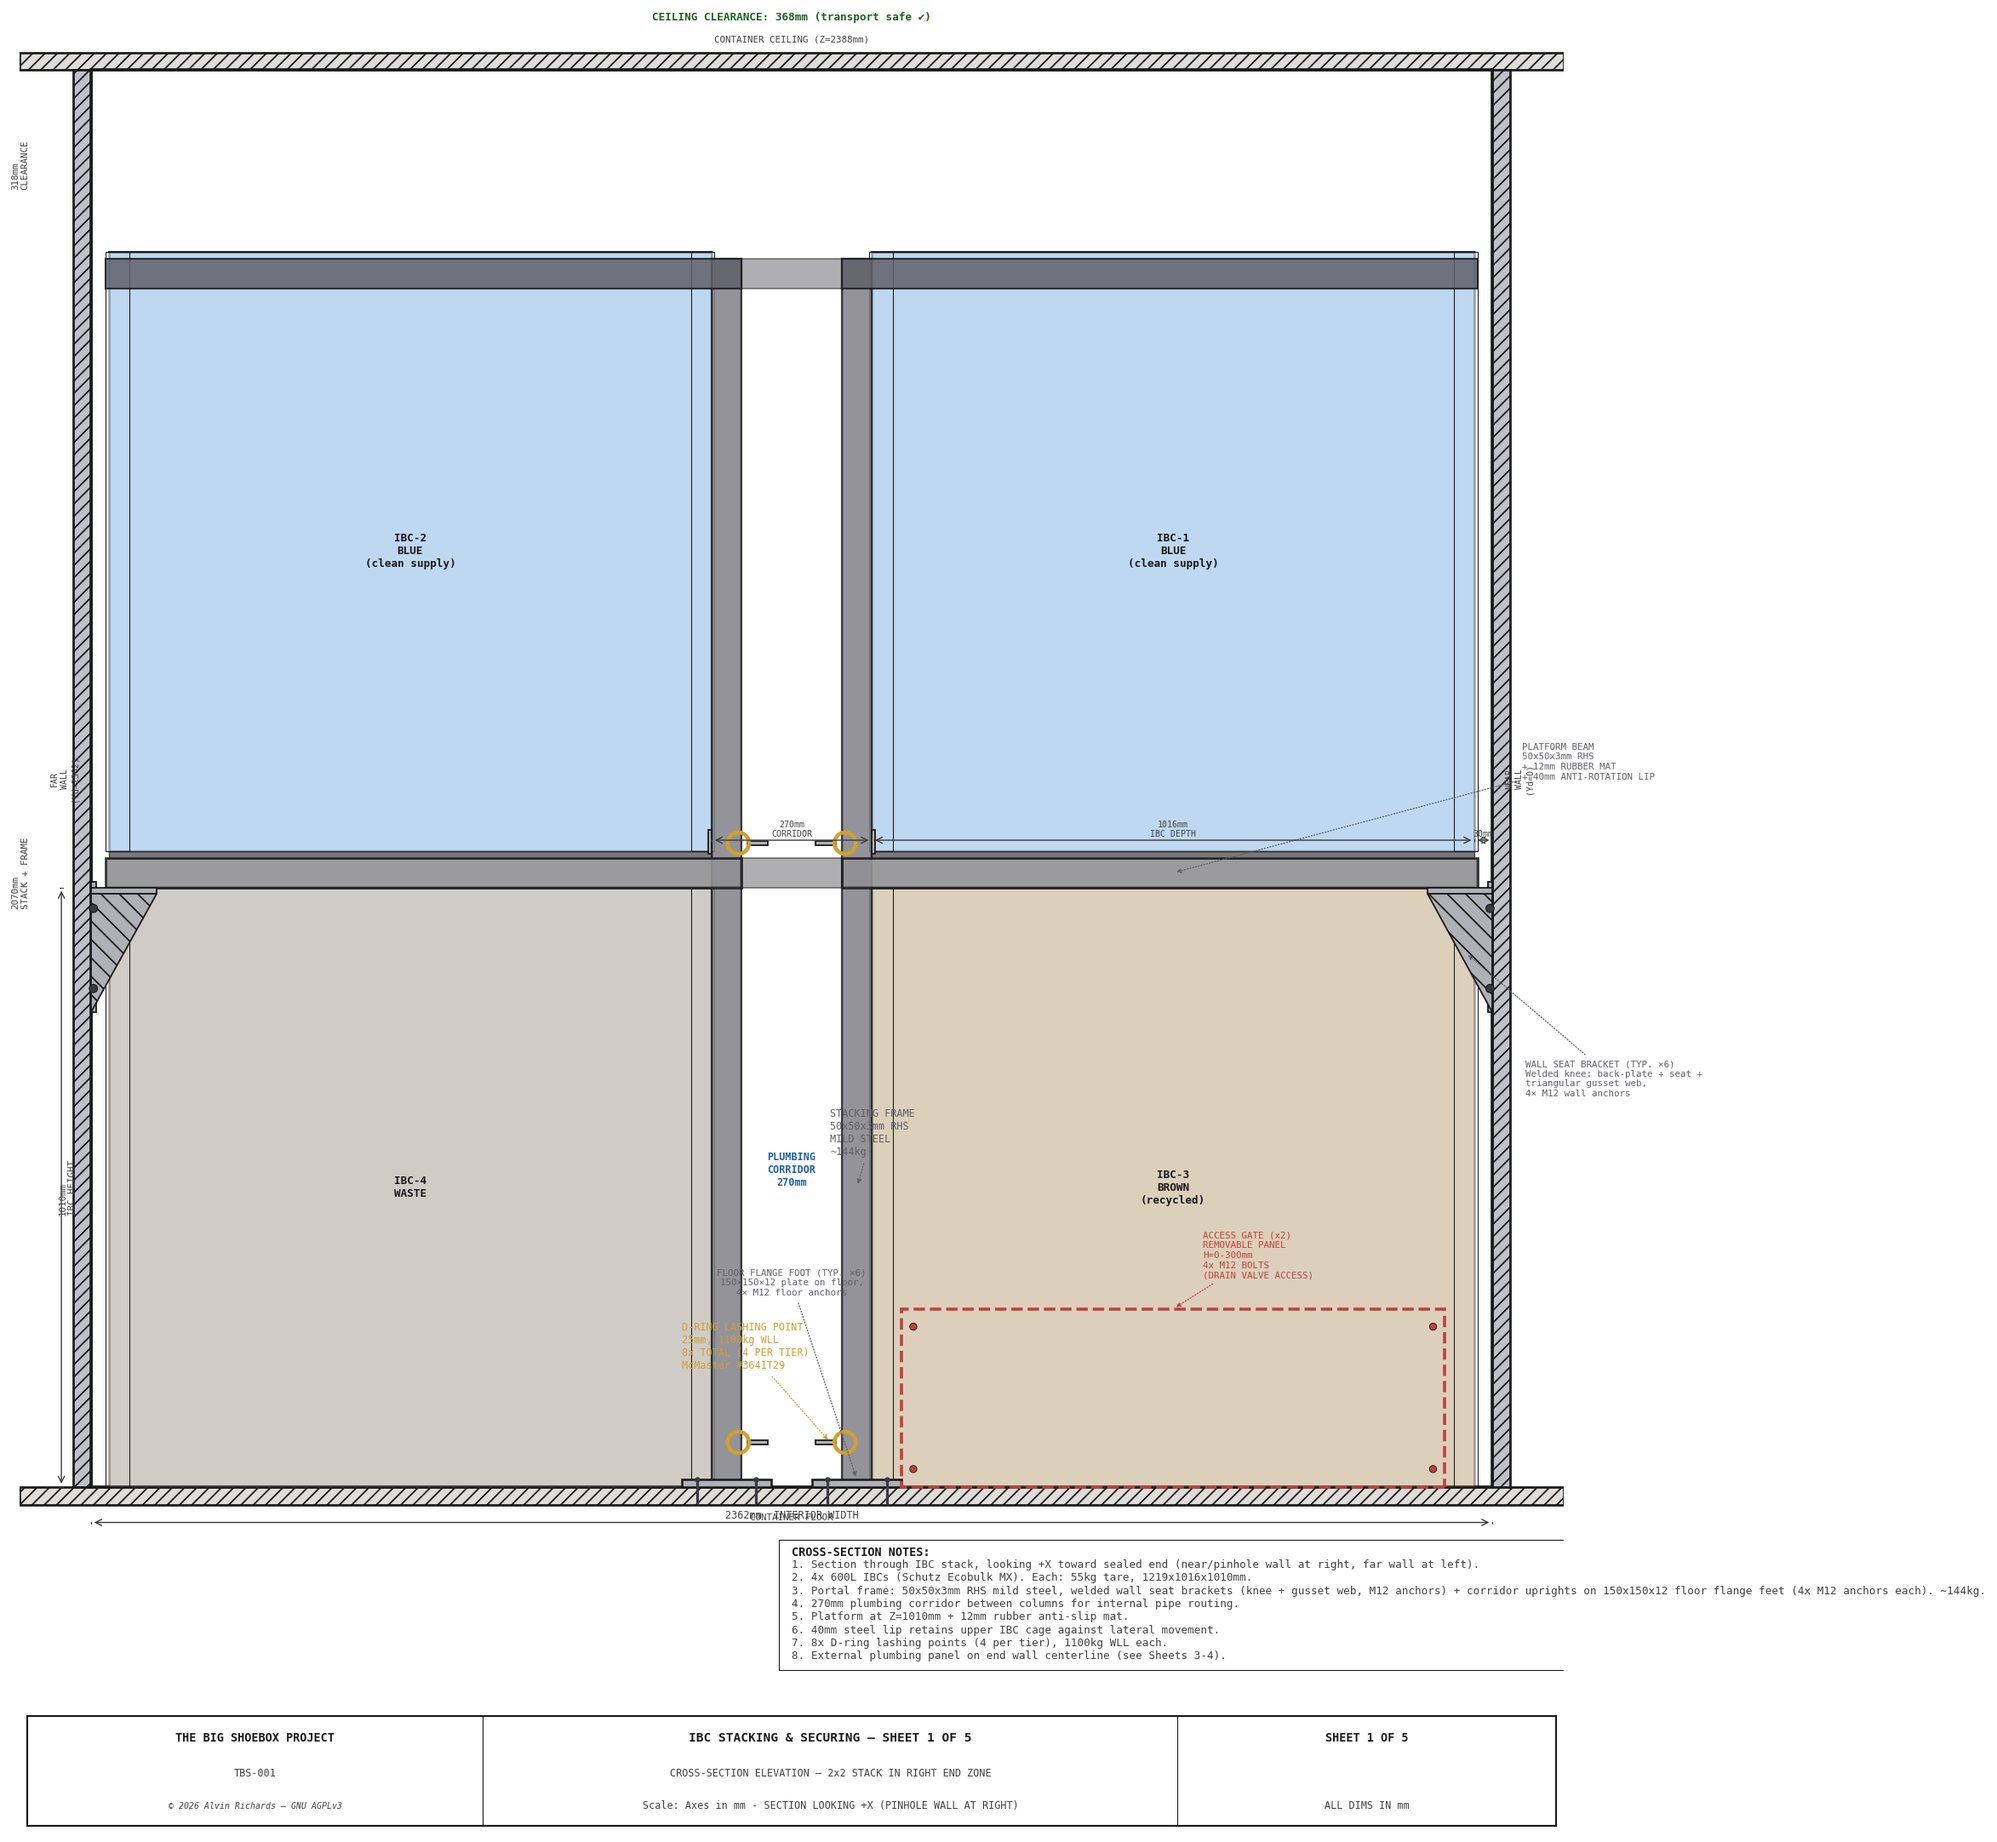
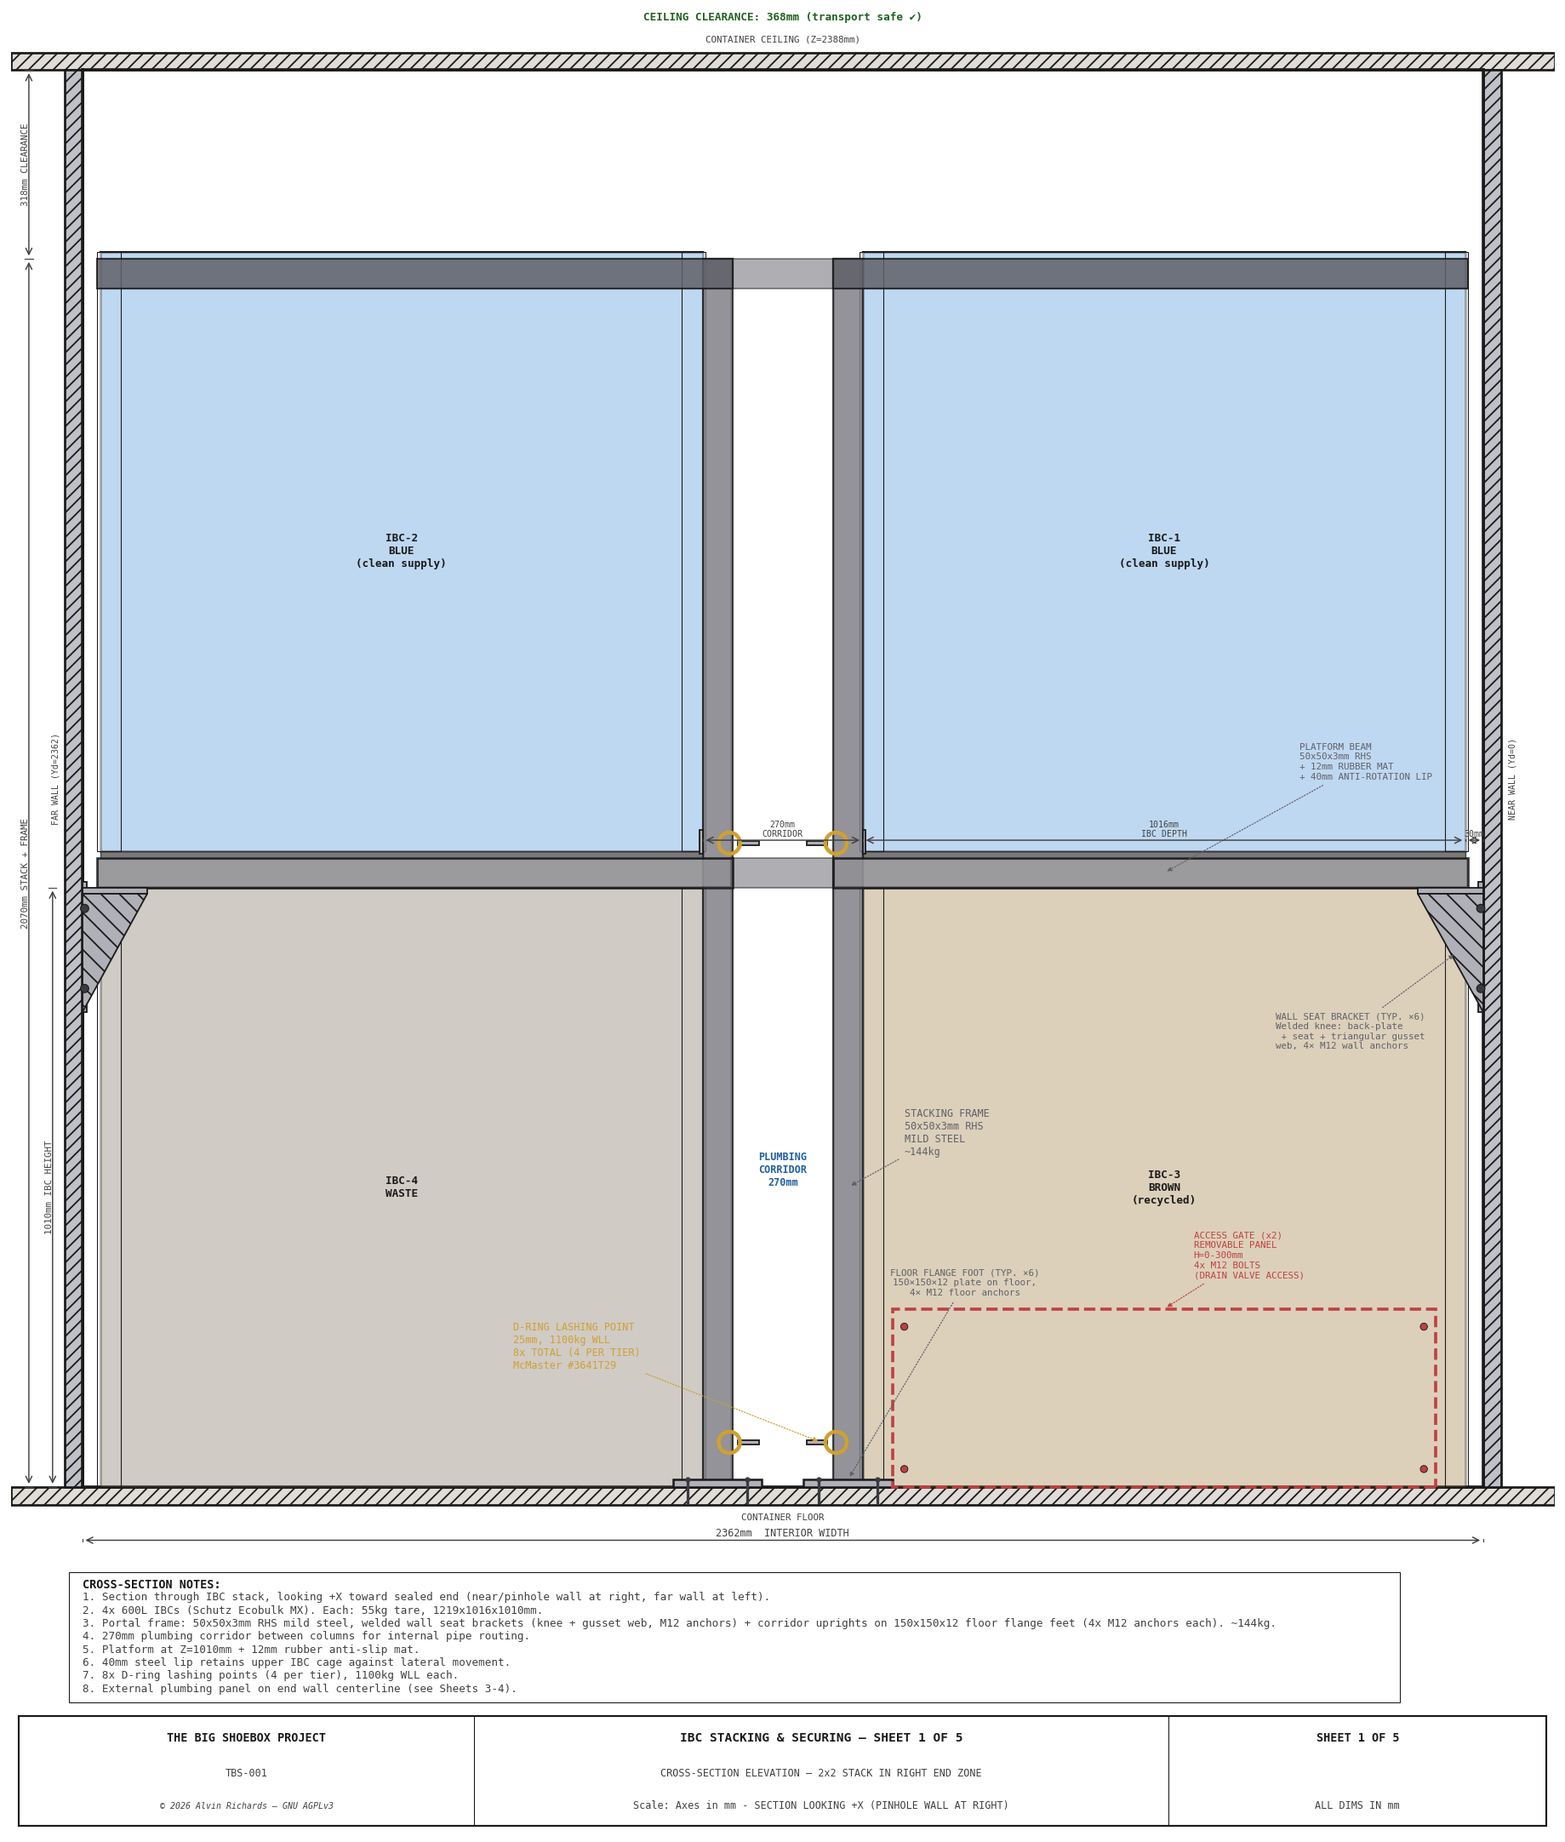
Tidy labels

diff --git a/src/generators/generate_ibc_stacking_diagram.py b/src/generators/generate_ibc_stacking_diagram.py
@@ -155,10 +155,10 @@ def sheet1():
             ha="center", va="top", fontsize=6, color=C_DIM, **FONT)
     ax.text(sx(C_WID / 2), sy(C_HGT + 45), "CONTAINER CEILING (Z=2388mm)",
             ha="center", va="bottom", fontsize=6, color=C_DIM, **FONT)
-    ax.text(sx(-45), sy(C_HGT / 2), "NEAR\nWALL\n(Yd=0)",
+    ax.text(sx(-50), sy(C_HGT / 2), "NEAR WALL (Yd=0)",
             ha="center", va="center", fontsize=5.5, color=C_DIM, **FONT,
             rotation=90)
-    ax.text(sx(C_WID + 45), sy(C_HGT / 2), "FAR\nWALL\n(Yd=2362)",
+    ax.text(sx(C_WID + 45), sy(C_HGT / 2), "FAR WALL (Yd=2362)",
             ha="center", va="center", fontsize=5.5, color=C_DIM, **FONT,
             rotation=90)
 
@@ -258,8 +258,8 @@ def sheet1():
                                 fc=C_BOLT, ec=C_OUT, lw=0.6, zorder=9))
 
     # Annotate the wall seat bracket (near-wall instance; typical at both walls)
-    leader(ax, sx(45), sy(seat_bot - gh / 2), sx(-55), sy(720),
-           "WALL SEAT BRACKET (TYP. ×6)\nWelded knee: back-plate + seat +\ntriangular gusset web,\n4× M12 wall anchors",
+    leader(ax, sx(45), sy(seat_bot - gh / 2), sx(350), sy(800),
+           "WALL SEAT BRACKET (TYP. ×6)\nWelded knee: back-plate\n + seat + triangular gusset\nweb, 4× M12 wall anchors",
            color=C_FRAME, fs=6, ha="left", va="top",
            arrow_style="-|>", font=FONT)
 
@@ -282,7 +282,7 @@ def sheet1():
             ax.plot(sx(fcy + d), sy(IBC_FOOT_PLATE_T), 'o',
                     color=C_BOLT, ms=3.5, mew=0, zorder=9)
     leader(ax, sx(corridor_uprights[0] + IBC_FRAME_RHS / 2), sy(IBC_FOOT_PLATE_T),
-           sx((near_col_r + far_col_l) / 2), sy(320),
+           sx((near_col_r + far_col_l) * 0.37), sy(320),
            "FLOOR FLANGE FOOT (TYP. ×6)\n150×150×12 plate on floor,\n4× M12 floor anchors",
            color=C_FRAME, fs=6, ha="center", va="bottom",
            arrow_style="-|>", font=FONT)
@@ -368,7 +368,7 @@ def sheet1():
 
     # D-ring label (one leader for all)
     leader(ax, sx(near_col_r + FRAME_RHS + 20), sy(FRAME_RHS * 1.5),
-           sx(near_col_r + FRAME_RHS + CORRIDOR_W), sy(FRAME_RHS * 1.5 + 120),
+           sx(near_col_r + FRAME_RHS + CORRIDOR_W * 2), sy(FRAME_RHS * 1.5 + 120),
            f"D-RING LASHING POINT\n25mm, {DRING_WLL}kg WLL\n8x TOTAL (4 PER TIER)\nMcMaster #3641T29",
            color=dring_color, fs=6.5,
            ha="left", va="bottom", arrow_style="-|>", font=FONT)
@@ -394,14 +394,14 @@ def sheet1():
     # ── Labels ────────────────────────────────────────────────────────────────
     # Frame label
     leader(ax, sx(near_col_r + FRAME_RHS / 2), sy(IBC_H_600 / 2),
-           sx(near_col_r + FRAME_RHS + 20), sy(IBC_H_600 / 2 + 50),
+           sx(near_col_r + FRAME_RHS - 120), sy(IBC_H_600 / 2 + 50),
            f"STACKING FRAME\n50x50x3mm RHS\nMILD STEEL\n~{FRAME_WEIGHT}kg",
            color=C_FRAME, fs=6.5,
            ha="left", va="bottom", arrow_style="-|>", font=FONT)
 
     # Platform label
     leader(ax, sx(BLUE_IBC_Y + IBC_D / 2), sy(platform_z + FRAME_RHS / 2),
-           sx(BLUE_IBC_Y - 80), sy(platform_z + 180),
+           sx(BLUE_IBC_Y + 280), sy(platform_z + 180),
            f"PLATFORM BEAM\n50x50x3mm RHS\n+ {MAT_T}mm RUBBER MAT\n+ {FRAME_LIP_H}mm ANTI-ROTATION LIP",
            color=C_FRAME, fs=6,
            ha="left", va="bottom", arrow_style="-|>", font=FONT)
@@ -409,20 +409,20 @@ def sheet1():
     # ── Dimension lines ───────────────────────────────────────────────────────
     # IBC height (bottom tier)
     draw_dim_v(ax, sx(IBC_FAR_Y + IBC_D + 80), sy(0), sy(IBC_H_600),
-               f"{IBC_H_600}mm\nIBC HEIGHT", offset=sx(8), fs=6, right=True, font=FONT)
+               f"{IBC_H_600}mm IBC HEIGHT", offset=sx(22), fs=6, right=True, font=FONT)
 
     # Stack total height
-    draw_dim_v(ax, sx(IBC_FAR_Y + IBC_D + 160), sy(0), sy(IBC_H_STK + FRAME_RHS),
-               f"{IBC_H_STK + FRAME_RHS}mm\nSTACK + FRAME", offset=sx(8), fs=6,
+    draw_dim_v(ax, sx(IBC_FAR_Y + IBC_D + 120), sy(0), sy(IBC_H_STK + FRAME_RHS),
+               f"{IBC_H_STK + FRAME_RHS}mm STACK + FRAME", offset=sx(22), fs=6,
                right=True, font=FONT)
 
     # Ceiling clearance
-    draw_dim_v(ax, sx(IBC_FAR_Y + IBC_D + 160), sy(IBC_H_STK + FRAME_RHS), sy(C_HGT),
-               f"{CEIL_CLEAR - FRAME_RHS}mm\nCLEARANCE", offset=sx(8), fs=6,
+    draw_dim_v(ax, sx(IBC_FAR_Y + IBC_D + 120), sy(IBC_H_STK + FRAME_RHS), sy(C_HGT),
+               f"{CEIL_CLEAR - FRAME_RHS}mm CLEARANCE", offset=sx(22), fs=6,
                right=True, font=FONT)
 
     # Container interior width
-    draw_dim_h(ax, sx(0), sx(C_WID), sy(-60),
+    draw_dim_h(ax, sx(0), sx(C_WID), sy(-90),
                f"{C_WID}mm  INTERIOR WIDTH", offset=sy(5), fs=6.5, font=FONT)
 
     # Near column Yd position
@@ -457,8 +457,8 @@ def sheet1():
         f"7. 8x D-ring lashing points (4 per tier), {DRING_WLL}kg WLL each.",
         f"8. External plumbing panel on end wall centerline (see Sheets 3-4).",
     ]
-    draw_notes(ax, notes, sx(C_WID / 2), sy(Z_LO + 480), spacing=sy(22),
-               fs=7, ha="left", font=FONT, width=3800)
+    draw_notes(ax, notes, sx(C_WID), sy(Z_LO + 425), spacing=sy(22),
+               fs=7, ha="left", font=FONT, width=2200)
 
     # ── Title block ───────────────────────────────────────────────────────────
     title_block(ax, "SHEET 1 OF 5",
